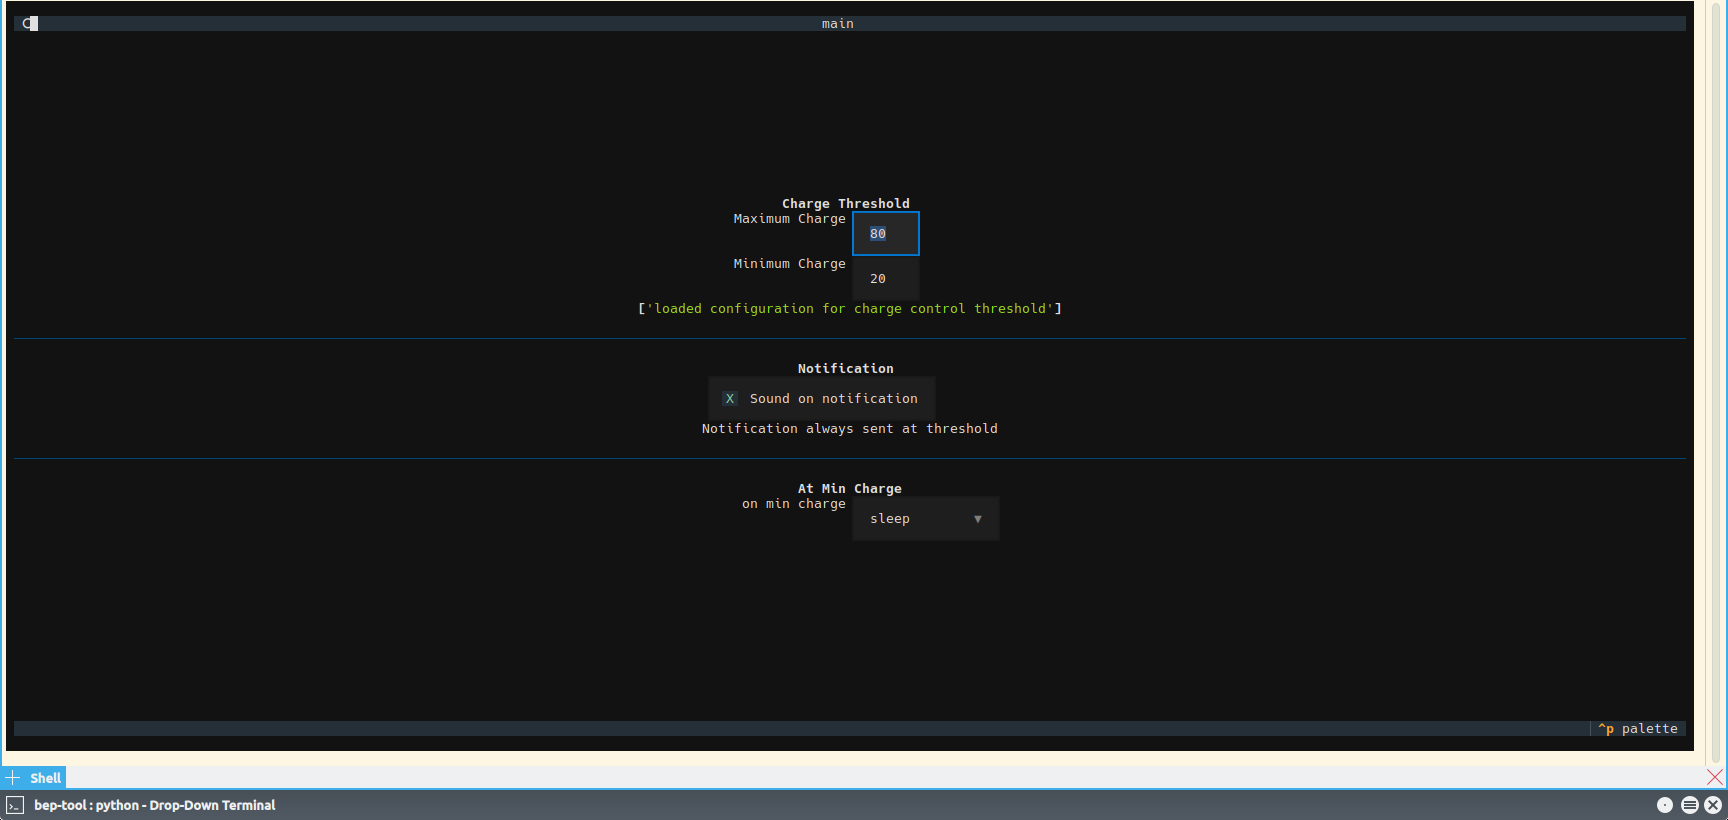
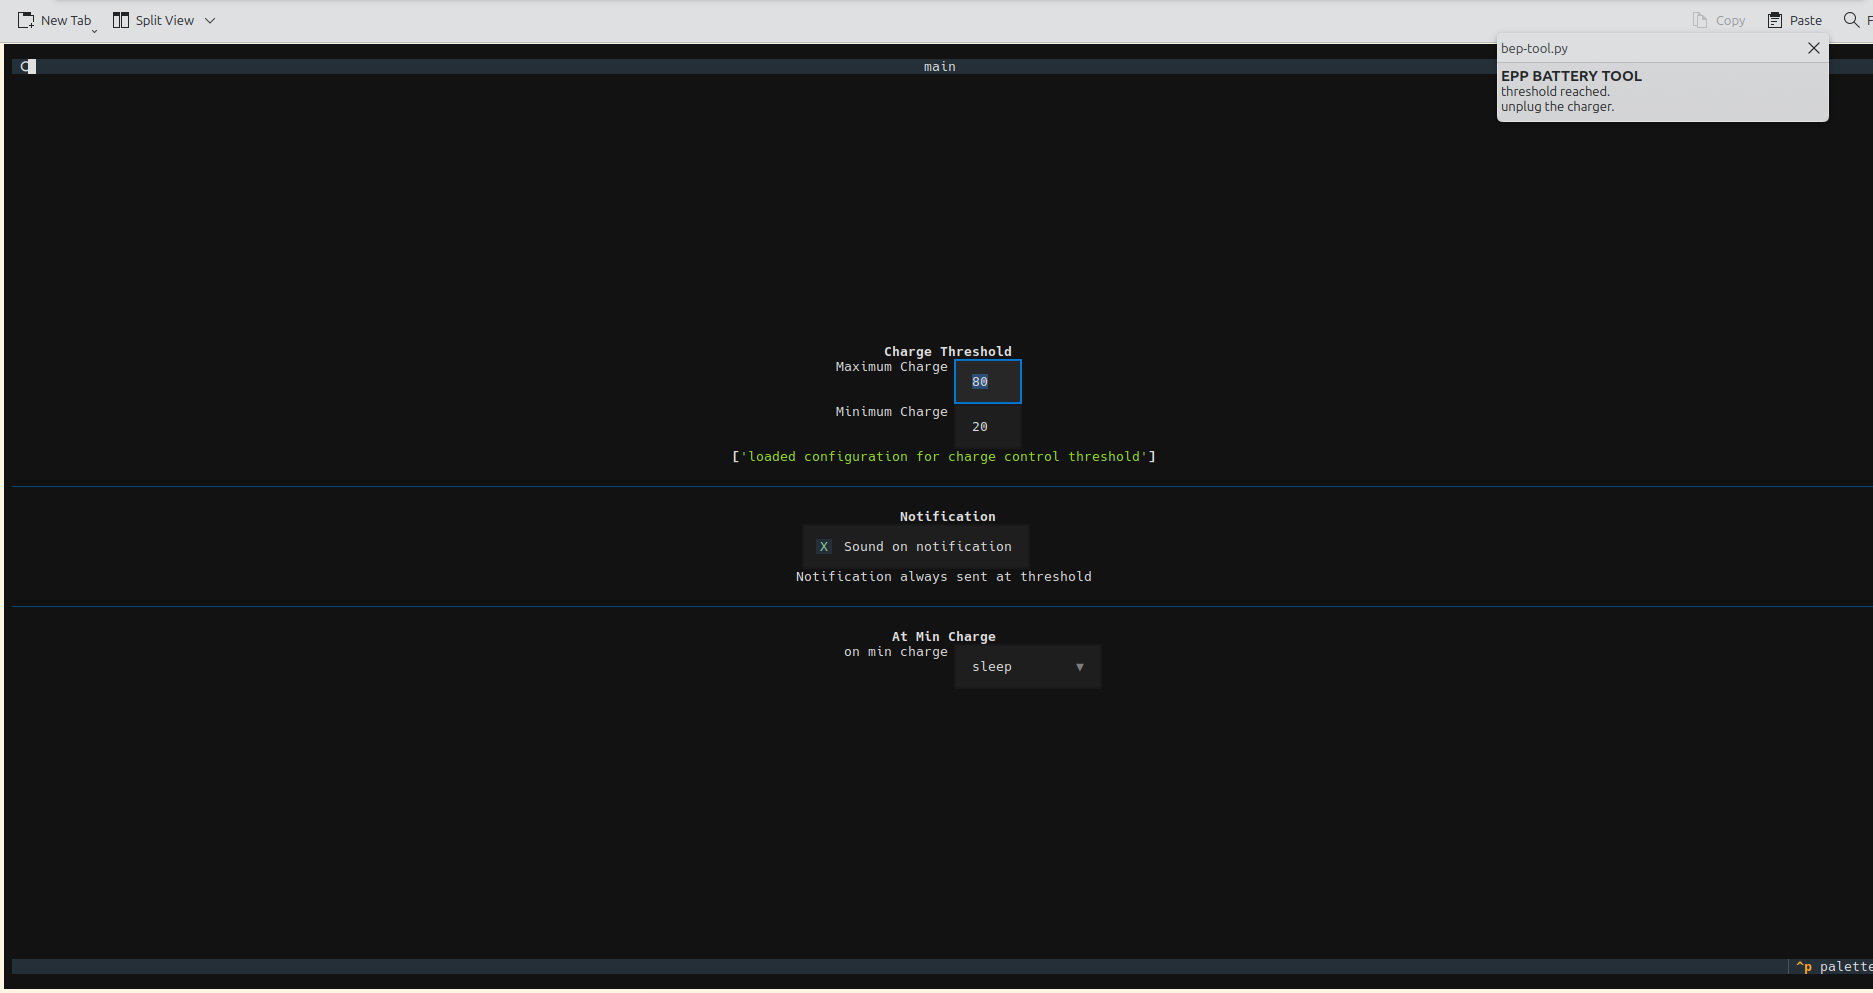
fix .tcss crash
+ place .tcss in bep-tool folder
+ replaced notification header from path to name
+ uses bash -c with auto exit

diff --git a/bep-tool/bep-tool.py b/bep-tool/bep-tool.py
@@ -71,7 +71,7 @@ BAT_POWER_SUPPLY = [
 ## TUI
 class main(tx_app.App):
     # the css path for the application
-    CSS_PATH = "./assets/bep_tool.tcss"
+    CSS_PATH = "./bep_tool.tcss"
 
     # class variables
     PWR_ACTION_LATENCY: str = "1 minute"
@@ -492,7 +492,7 @@ class Notification_(notify2.Notification):
         # notification object
         super().__init__(None)
 
-        notify2.init(f"{__file__}")
+        notify2.init(f"{os.path.basename(__file__)}")
         self.set_urgency(notify2.URGENCY_NORMAL)
         self.set_timeout(0) # No timeout
 
